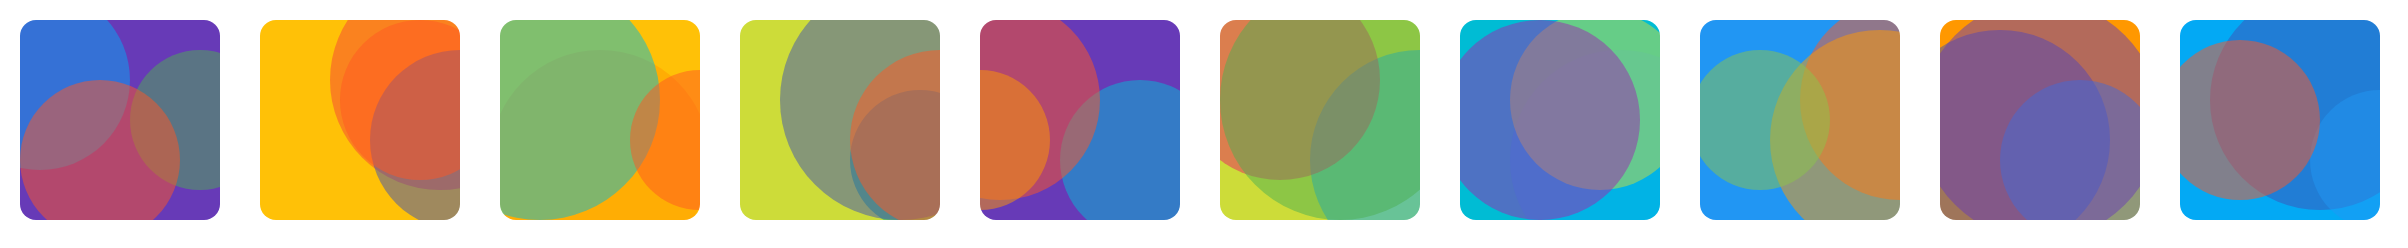
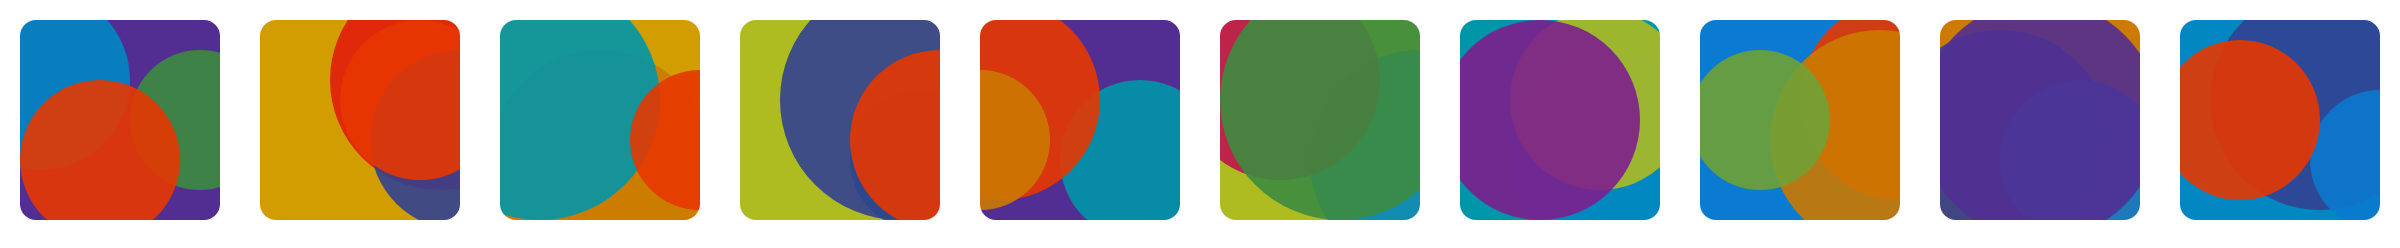
tweak opacity

diff --git a/index.ts b/index.ts
@@ -55,7 +55,7 @@ export function picasso(content: string) {
         const cy = cys.splice(Math.floor(cys.length * rand.random()), 1)[0]
         const fill = genColor()
 
-        shapesStr += `<circle r="${r}" cx="${cx}" cy="${cy}" fill="${fill}" opacity="0.5"/>`
+        shapesStr += `<circle r="${r}" cx="${cx}" cy="${cy}" fill="${fill}" opacity="0.9"/>`
     }
     return `<svg version="1.1" xmlns="http://www.w3.org/2000/svg" viewBox="0 0 100 100">${bgStr}${shapesStr}</svg>`
 }
